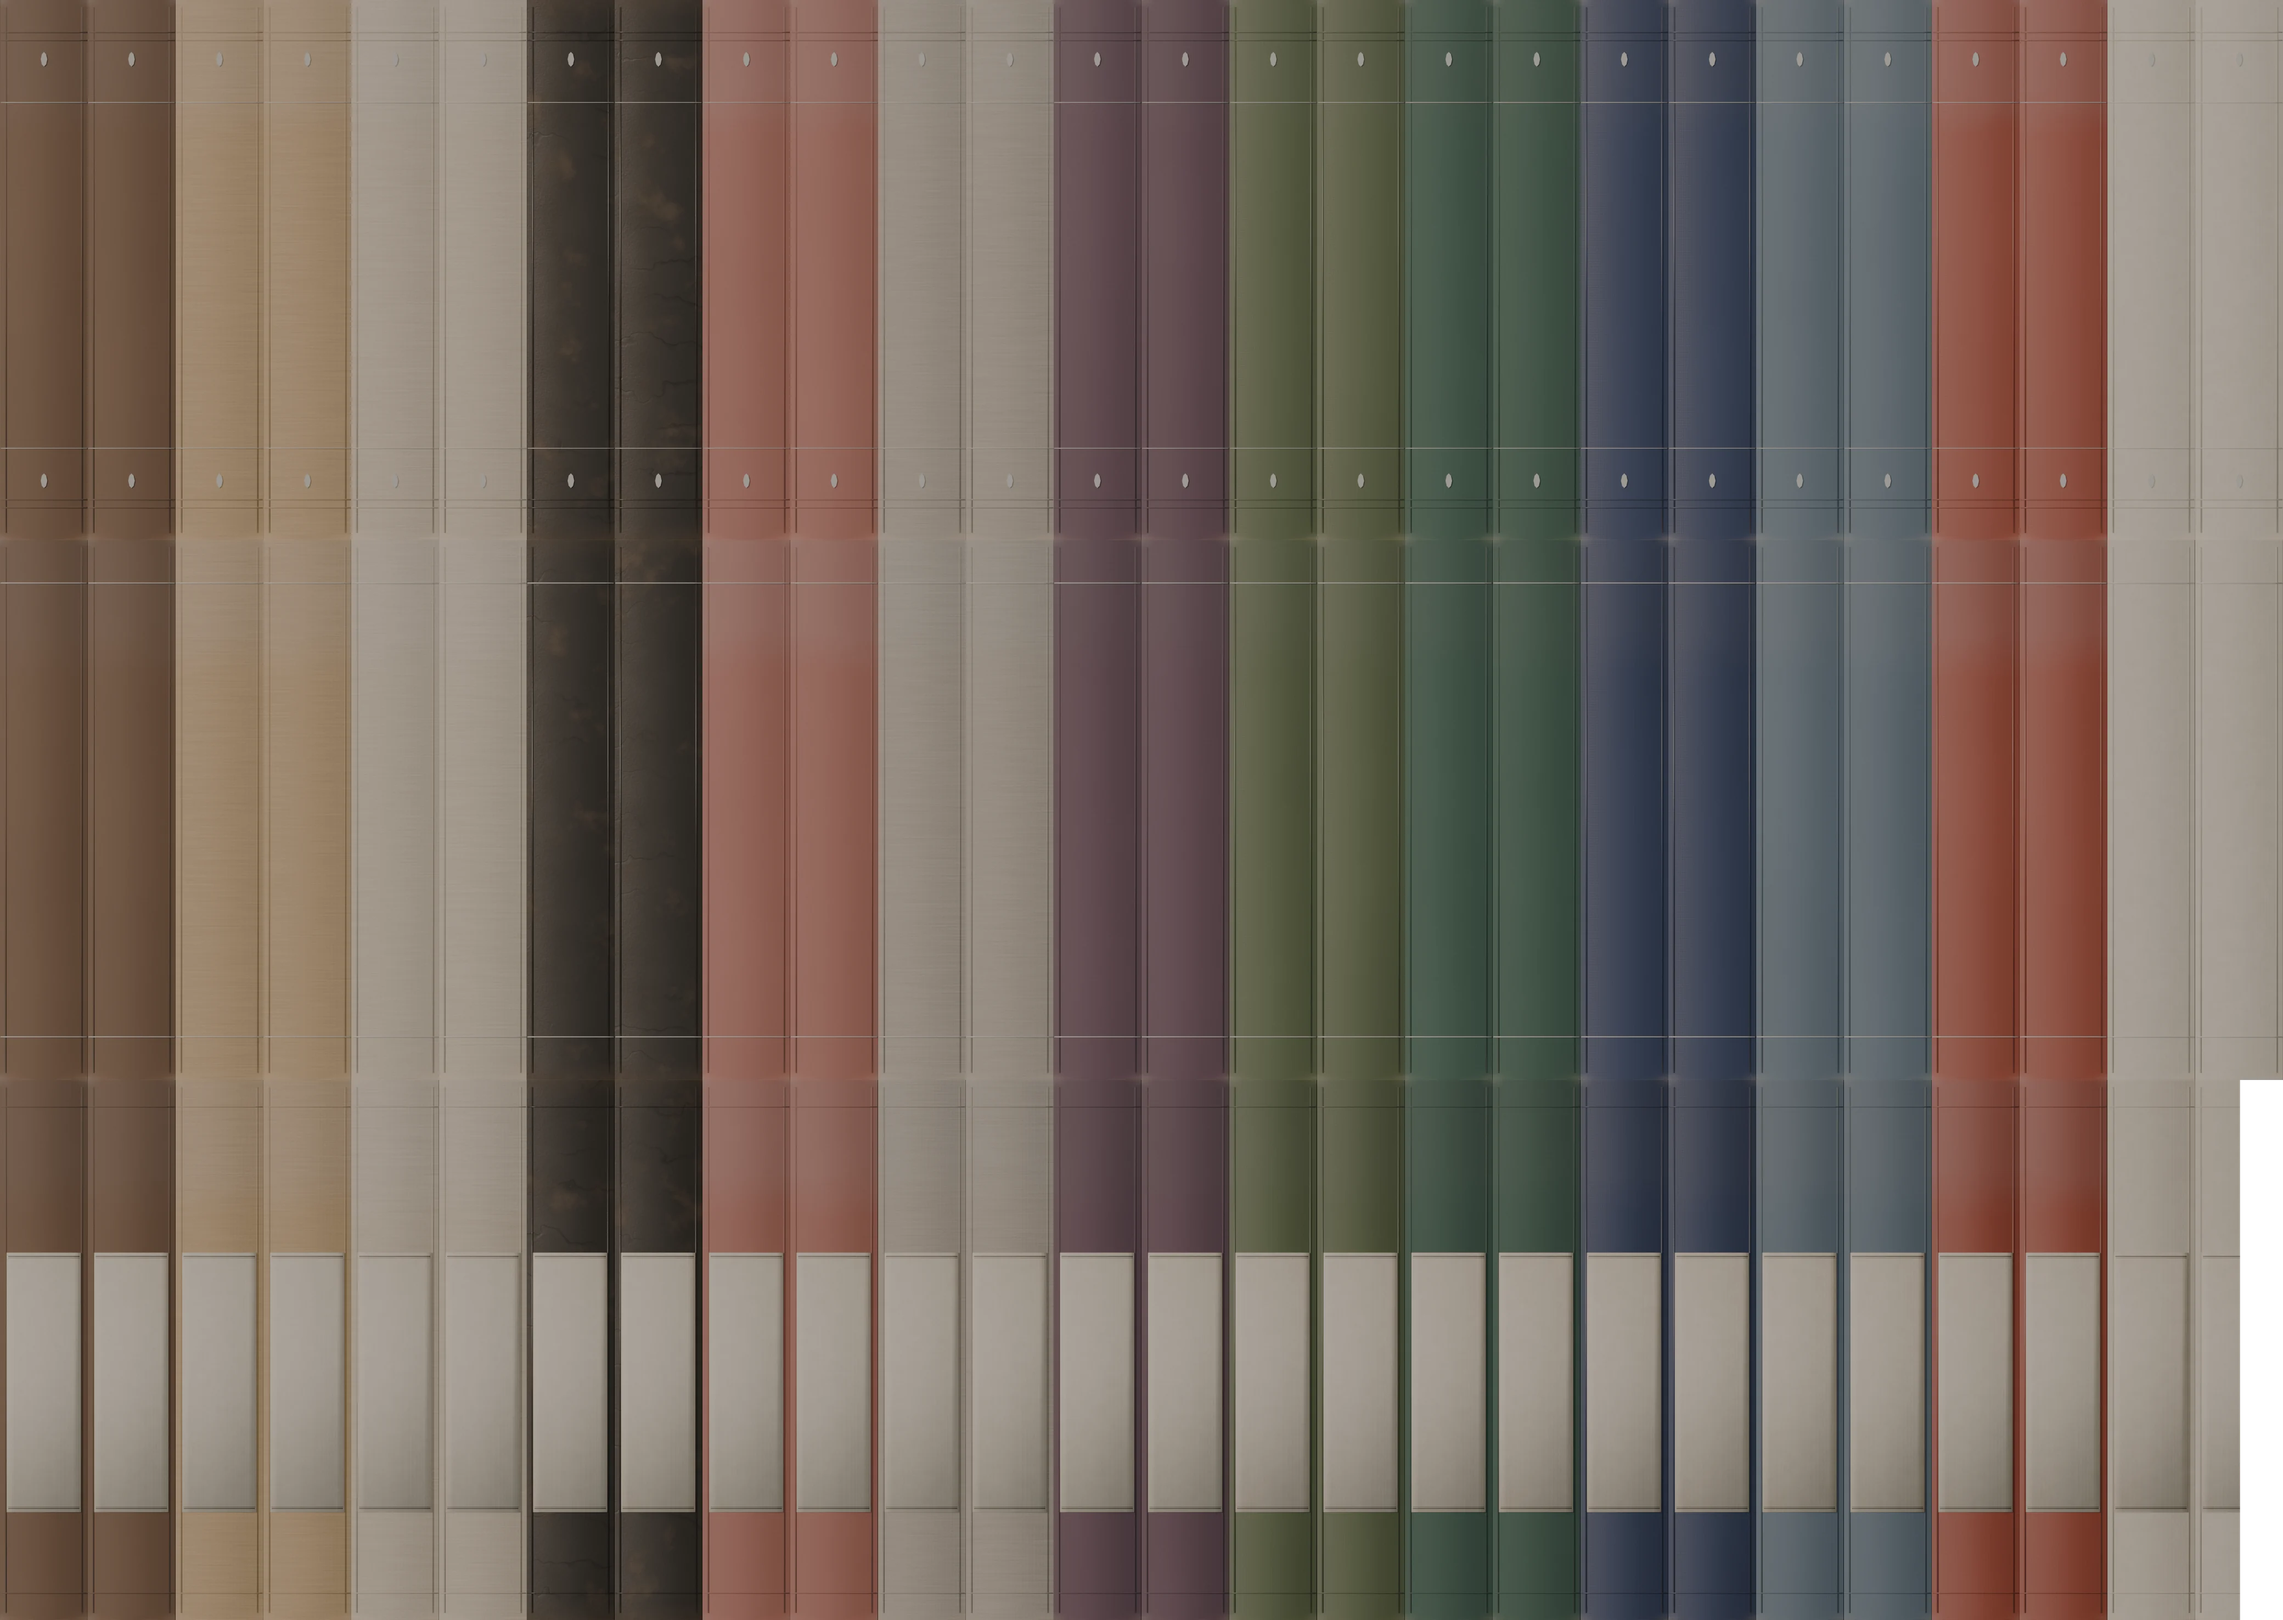
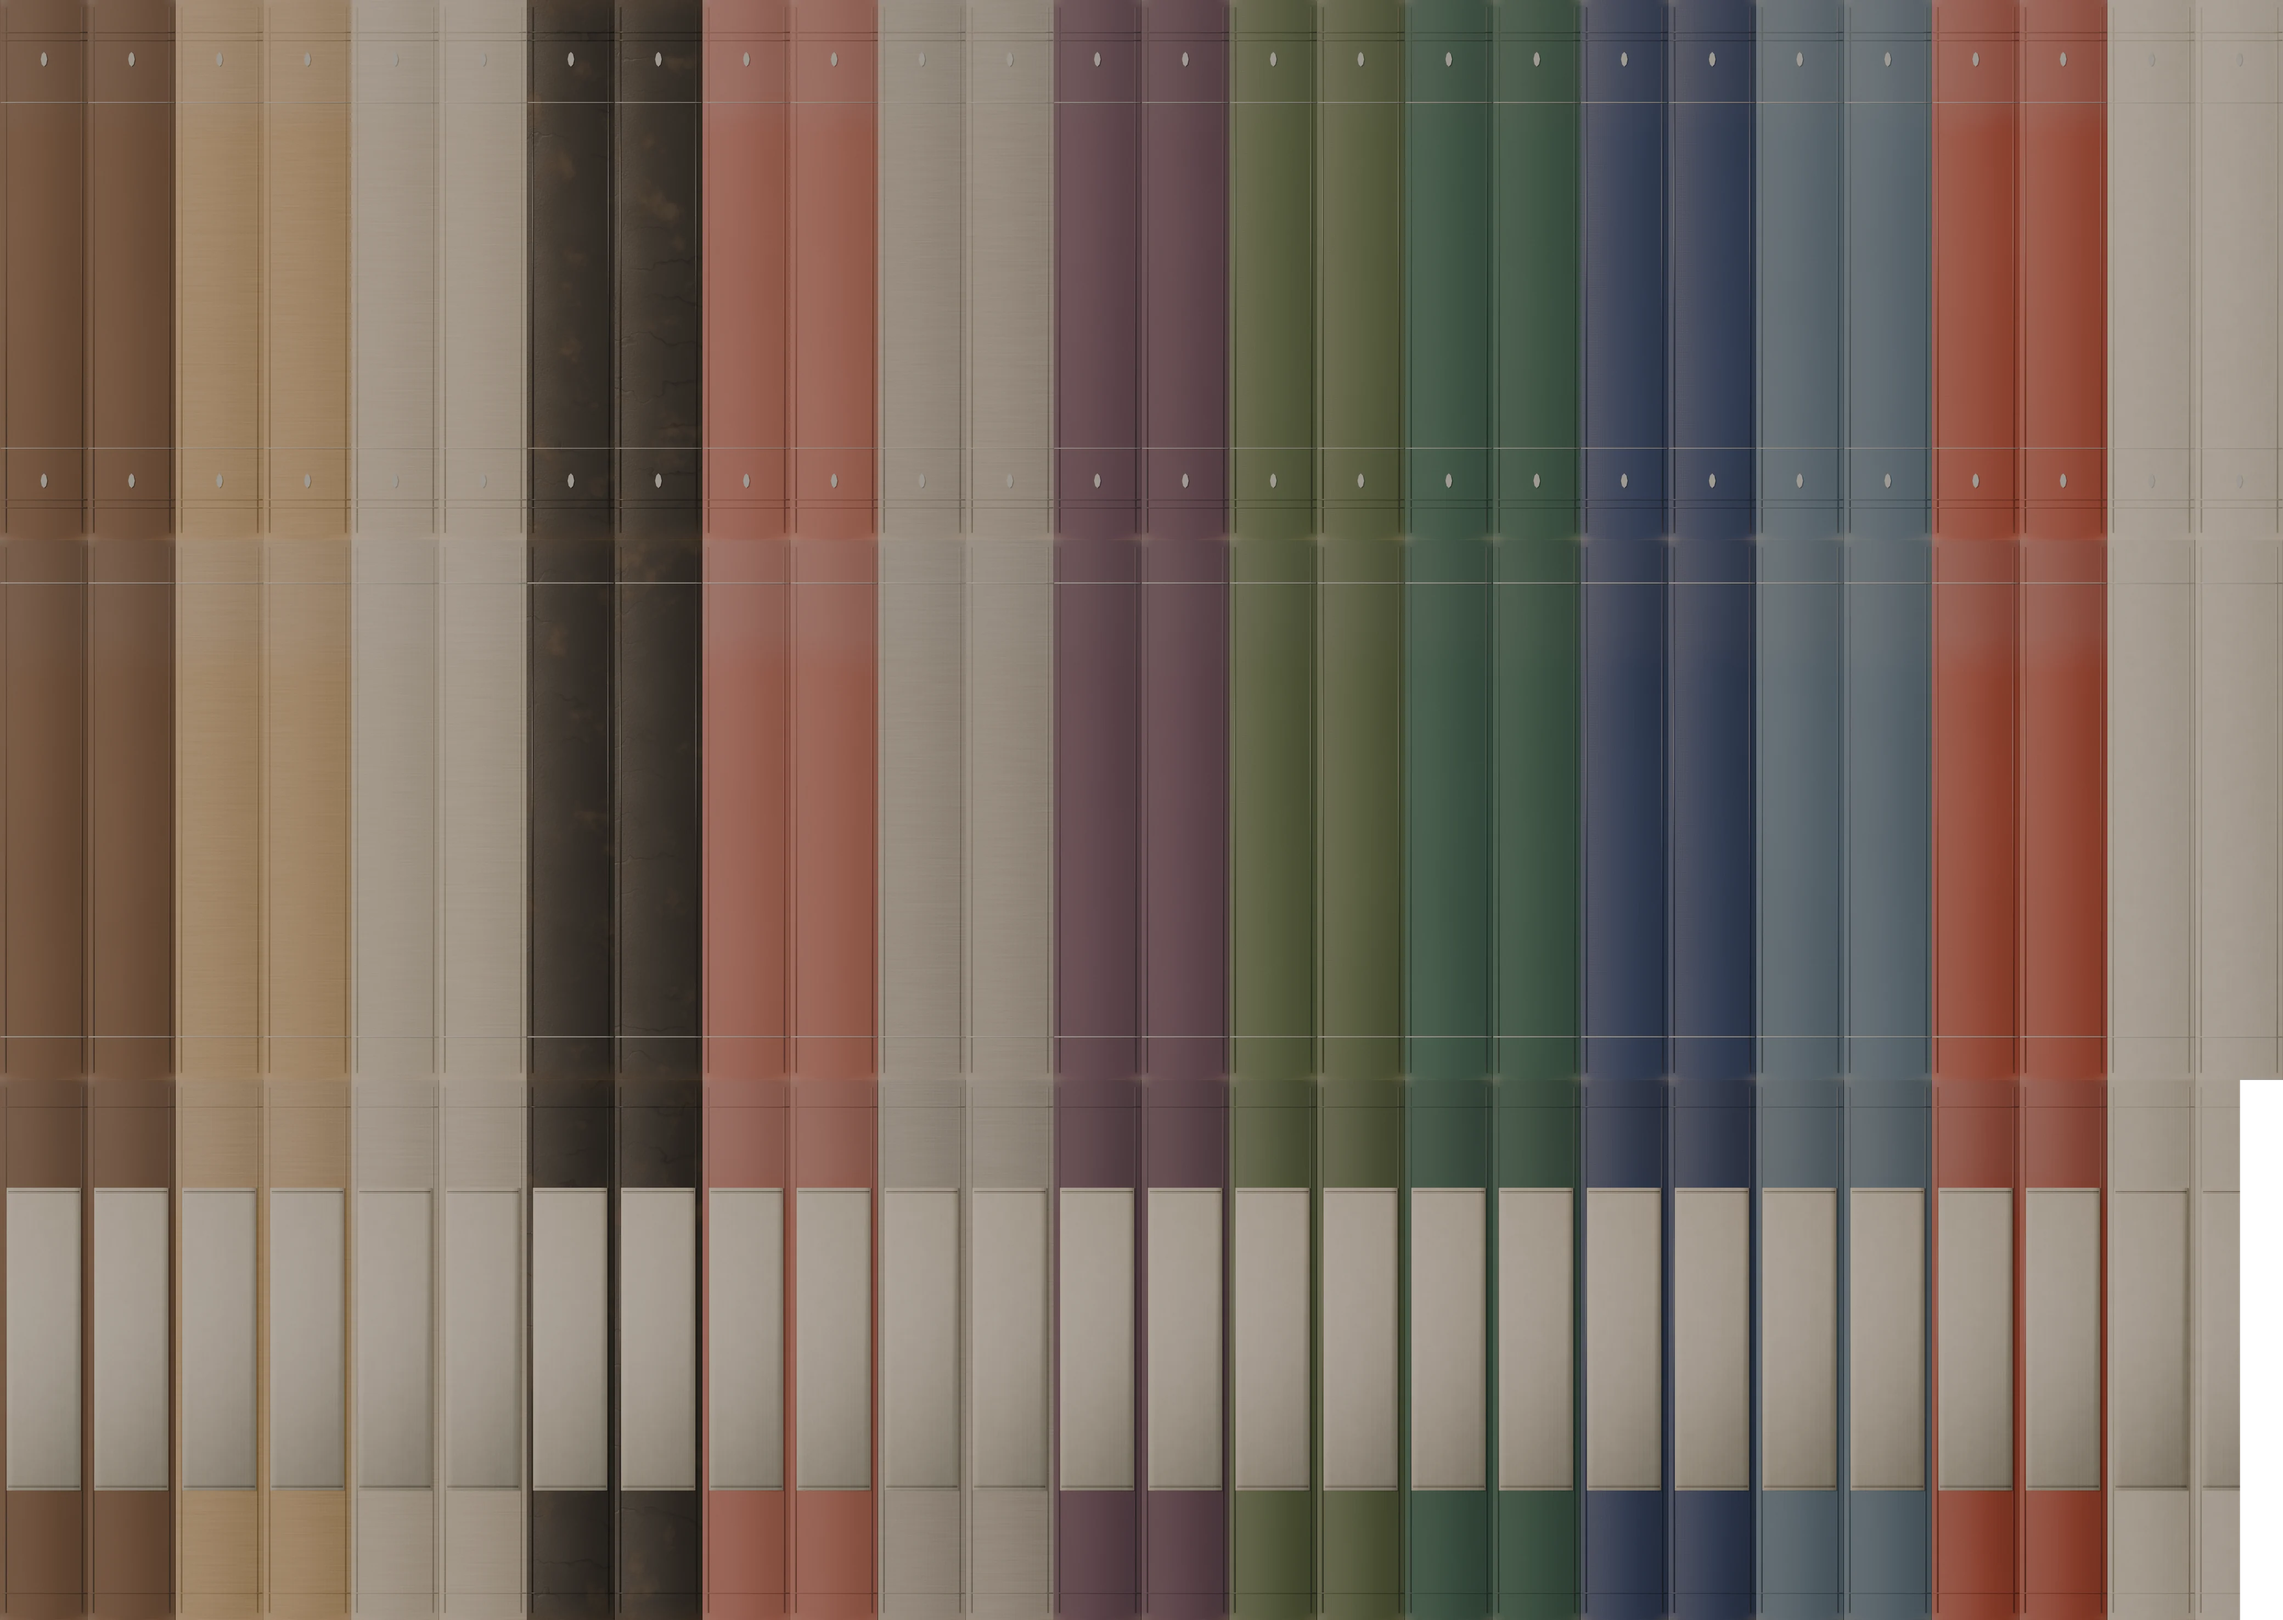
Sage: richer colour, clearer spine titles, paper labels re-rendered under the titles

diff --git a/index.html b/index.html
@@ -953,13 +953,15 @@ body.portrait:not(.compact) .topbar .lbl{display:none}
 :root[data-theme=sage] .shelf::after{background:url(themes/sage/shade.webp) no-repeat;background-size:1180px 820px;background-position:var(--sx) var(--sy);mix-blend-mode:multiply;opacity:1}
 :root[data-theme=sage] .spine{box-shadow:inset 2px 0 2px -1px rgba(0,0,0,.22),inset -3px 0 3px -1px rgba(0,0,0,.32),1px 0 2px rgba(0,0,0,.40)}
 :root[data-theme=sage] .shelf::before{content:"";position:absolute;left:0;right:0;bottom:0;height:6px;background:linear-gradient(0deg,rgba(0,0,0,.30),transparent);pointer-events:none;z-index:2}
-:root[data-theme=sage] .spine .t{color:#CEC8B8;text-shadow:0 .05em 0 rgba(0,0,0,.45)}
-:root[data-theme=sage] .spine.light .t{color:#35332E;text-shadow:none}
-:root[data-theme=sage] .spine.plabel .t{color:#2E2C27;text-shadow:none}
+:root[data-theme=sage] .spine .t{color:#E6E0D1;text-shadow:0 .06em .03em rgba(0,0,0,.7),0 0 .25em rgba(0,0,0,.25)}
+:root[data-theme=sage] .spine.light .t{color:#22201C;text-shadow:none}
+:root[data-theme=sage] .spine.plabel .t{color:#1F1D1A;text-shadow:none}
 :root[data-theme=sage] .shelf .genre-tag,:root[data-theme=sage] .shelf .range-tag{background:linear-gradient(#CFC6B2,#B9B09B);color:#2B2A26;box-shadow:0 0 0 1px #5F5C55,inset 0 1px 0 rgba(255,255,255,.25),0 1px 1px rgba(0,0,0,.30);font-size:8.5px}
 :root[data-theme=sage] .spine .slip{background:linear-gradient(#D3C8B0,#BCB199)}
 :root[data-theme=sage] .spine .lent{background-color:#D9D2C2}
 :root[data-theme=sage] .spine .sno{color:#CEC8B8;text-shadow:0 .5px 0 rgba(0,0,0,.45)}
+/* the zoomed shelf is lifted into its own stacking context, where a multiply layer has nothing beneath it: drop the light map there */
+:root[data-theme=sage] .wall.zoomed .shelf.z::after{background:linear-gradient(180deg,rgba(0,0,0,.22) 0,rgba(0,0,0,.05) 25%,transparent 50%);mix-blend-mode:normal}
 
 </style>
 </head>
@@ -992,7 +994,7 @@ const FORMATS = ['Hardback', 'Paperback', 'Ebook', 'Audiobook', 'Library loan', 
 const COLORS = SPR.colors;          // binding colours, same order as the sprite atlas columns
 const STYLES = SPR.styles;          // antique | smooth | label
 /* ---------- colour themes: the classic mahogany room plus recoloured sets under themes/<id>/ ---------- */
-const THEMES = {"classic": {"name": "Classic Mahogany", "blurb": "The original \u2014 polished mahogany, brass lamps, candlelight", "swatch": ["#4a2616", "#c9a45a", "#e9dcc0"], "colors": [], "chrome": "#0b0c0c"}, "sage": {"name": "Sage", "blurb": "Painted sage joinery, limed oak, pewter and afternoon light", "swatch": ["#8E9A88", "#CFCABB", "#EEE8DA"], "colors": ["#4a392d", "#6c5c4b", "#6f685f", "#292520", "#65463d", "#655f58", "#413336", "#3e4030", "#2f3a32", "#2a2e3a", "#41484c", "#60372e", "VELLUM"], "chrome": "#0b0c0c", "light": [1, 2, 5, 12], "weights": [9, 5, 6, 8, 8, 4, 8, 9, 8, 9, 8, 7, 6], "variants": 2, "geo": {"flames": [[402.1, 316.0], [777.9, 316.0]], "hoods": [], "sun": [[0, 0], [760, 0], [520, 820], [0, 820]], "ladder": {"x": 847.5, "y": 117.5, "x1": 966.0, "y1": 820.0, "cx": 885.5}}}};
+const THEMES = {"classic": {"name": "Classic Mahogany", "blurb": "The original \u2014 polished mahogany, brass lamps, candlelight", "swatch": ["#4a2616", "#c9a45a", "#e9dcc0"], "colors": [], "chrome": "#0b0c0c"}, "sage": {"name": "Sage", "blurb": "Painted sage joinery, limed oak, pewter and afternoon light", "swatch": ["#8E9A88", "#CFCABB", "#EEE8DA"], "colors": ["#4d382a", "#6e5c47", "#70675e", "#2a251f", "#69453b", "#665f57", "#433336", "#3e402d", "#2d3b31", "#292e3c", "#41484d", "#66362a", "VELLUM"], "chrome": "#0b0c0c", "light": [1, 2, 5, 12], "weights": [9, 5, 6, 8, 8, 4, 8, 9, 8, 9, 8, 7, 6], "variants": 2, "geo": {"flames": [[402.1, 316.0], [777.9, 316.0]], "hoods": [], "sun": [[0, 0], [760, 0], [520, 820], [0, 820]], "ladder": {"x": 847.5, "y": 117.5, "x1": 966.0, "y1": 820.0, "cx": 885.5}}}};
 const CLASSIC_COLORS = COLORS.slice();
 const GEO_THEMED = ['flames', 'hoods', 'ladder', 'sun'], GEO_CLASSIC = Object.fromEntries(GEO_THEMED.map((k) => [k, GEO[k]]));
 function lightBinding(ci) { const t = THEMES[themeId()]; return t && t.light ? t.light.includes(ci) : COLORS[ci] === 'VELLUM'; } // bindings lettered in ink rather than foil
@@ -1593,7 +1595,7 @@ let FORCEW = 0; // minimum spine width while re-fitting a group to its shared wi
 let NOCAPS = false; // set while re-fitting a group whose neighbours cannot all be set in capitals
 function textW(s, font) { const k = font + '|' + s; let w = mCache.get(k); if (w == null) { measureCtx.font = font; w = measureCtx.measureText(s).width; mCache.set(k, w); } return w; }
 const SPINE_WIN = { smooth: [0.13, 0.74], label: [0.16, 0.68], antique: [0.2, 0.64] }; // [top, length] as a share of the spine height
-const SPINE_WIN_SAGE = { smooth: [0.13, 0.74], label: [0.22, 0.44], antique: [0.2, 0.64] }; // Sage: the paper label is shorter
+const SPINE_WIN_SAGE = { smooth: [0.13, 0.74], label: [0.225, 0.51], antique: [0.2, 0.64] }; // Sage: the paper label is shorter
 const spineWin = () => (themeId() === 'sage' ? SPINE_WIN_SAGE : SPINE_WIN);
 function atlasCol(b, ci) { const V = (THEMES[themeId()] || {}).variants || 1; return { col: ci * V + (V > 1 ? Math.min(V - 1, Math.floor(rnd(b.id, 'v') * V)) : 0), cols: SPR.cols * V }; } // Sage atlas: two seeds per binding
 const famFor = (fs) => (fs >= 11 ? 'cg' : 'eb');
@@ -1717,7 +1719,7 @@ function spineHTML(b, d, extraCls, lean) {
   const leanCss = lean ? `transform:rotate(${lean}deg);margin-left:9px;` : tilt ? `transform:rotate(${tilt.toFixed(2)}deg);` : '';
   const label = `${b.title}${b.author ? ', ' + b.author : ''}${status(b) === 'want' ? ', want to read' : ''}${b.lentTo ? ', lent to ' + b.lentTo : ''}`;
   const AC = atlasCol(b, col);
-  const jit = sage ? `filter:brightness(${(0.94 + rnd(b.id, 'jb') * 0.11).toFixed(3)}) saturate(${(0.92 + rnd(b.id, 'js') * 0.14).toFixed(3)});` : '';
+  const jit = sage ? `filter:brightness(${(0.94 + rnd(b.id, 'jb') * 0.11).toFixed(3)}) saturate(${(0.98 + rnd(b.id, 'js') * 0.14).toFixed(3)});` : '';
   return `<button class="spine ${extraCls || ''} ${lean ? 'lean' : ''} ${light ? 'light' : ''} ${tint ? 'tinted' : ''} ${vellum && style === 'label' ? 'vlabel' : ''} ${plabel ? 'plabel' : ''}" ${tint ? `data-tint="${tint}"` : ''} data-act="spine" data-id="${esc(b.id)}" aria-label="${esc(label)}" style="width:${d.w}px;height:${d.h}px;background-image:url(${T('spines.webp')});background-size:${(AC.cols * cw * kx).toFixed(1)}px ${(SPR.rows * ch * ky).toFixed(1)}px;background-position:-${(AC.col * cw * kx).toFixed(1)}px -${(row * ch * ky).toFixed(1)}px;${leanCss}${jit}">${t}${marks}</button>`;
 }
 

diff --git a/sw.js b/sw.js
@@ -1,7 +1,7 @@
 /* The Library — service worker.
  * Bump VERSION on every deploy that changes any precached file, so clients pick up the new shell.
  */
-const VERSION = 'lib-v46';
+const VERSION = 'lib-v47';
 
 const SHELL_CACHE = 'shell-' + VERSION;
 const COVERS_CACHE = 'covers';          // shared across versions, capped below
